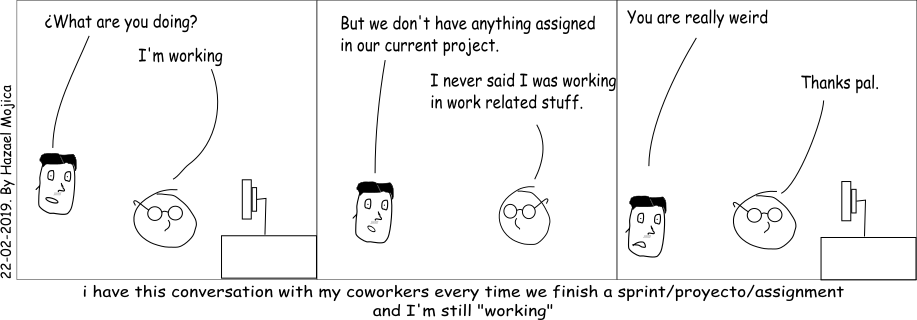
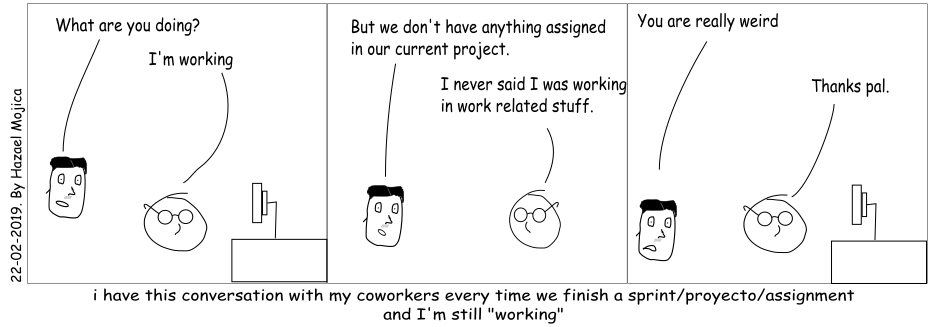
Last touches to 1

diff --git a/_layouts/comic.html b/_layouts/comic.html
@@ -21,21 +21,21 @@
 
     <div class="container">
       <section id="main_content">
-        <h1>{{ page.title }}</h1>
-        <p class="meta">{{ page.date | date_to_string }}</p>
-
         <div class="comic">
             <div class="row">
                 <div class="col-12 text-center">
+                    <h1>{{ page.title }}</h1>
+                    <p class="meta">{{ page.date | date_to_string }}</p>
                     <img src="/assets/aass/{{ page.comic }}.png" alt="comic image" /><br>
             
                     <h3>Transcript</h3>
                     <p>{{ page.transcript }}</p>
                     <p>
                         <a href="/aass/{{ page.previous }}">Previous</a> |
-                        <a href="/aass/{{ page.next }}">Next</a>)<br>
+                        <a href="/aass/{{ page.next }}">Next</a><br>
                     </p>
-
+                    
+                    <p>{{ page.tags }}</p>
                     <p>{{ content }}</p>
                 </div>
             </div>

diff --git a/aass/es/1.md b/aass/es/1.md
@@ -1,11 +1,11 @@
 ---
 layout: comic
-title: ASS
-date: 2019-02-22
+title: Trabajando
+date: 2019-02-25
 comic: 1_es
-transcript: Este es el transcript
-previous: 
+transcript:  - ¿Qué haces? - Estoy trabajando - Pero no tenemos nada asignado en el proyecto actual - Nunca dije que estuviera trabajando en cosas del trabajo - Eres muy extraño - Gracias
+previous:
 next:
+tags: #nowork #sarcasm #indifferent-mood
 ---
 
-This is the first comic

diff --git a/aass/en/1.md b/aass/en/1.md
@@ -1,0 +1,11 @@
+---
+layout: comic
+title: Working
+date: 2019-02-25
+comic: 1_en
+transcript:  - What are you doing? - I'm working - But we don't have anything assigned in our current project - I never said I was working in work related stuff - You are really weird - Thanks pal
+previous:
+next:
+tags: #nowork #sarcasm #indifferent-mood
+---
+
